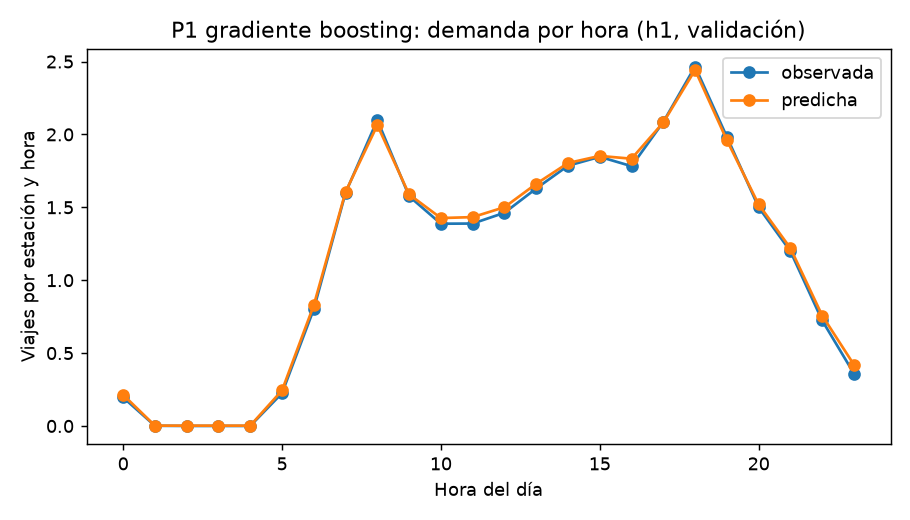
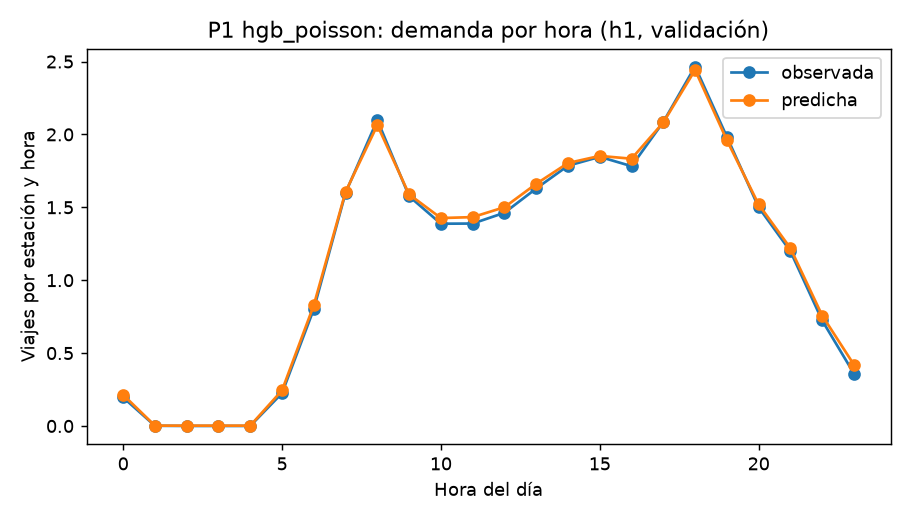
docs: alinea documentacion con segunda iteracion y evidencia

Changed region(s): [[0.1846, 0.0308, 0.8923, 0.0923]]

diff --git a/README.md b/README.md
@@ -10,10 +10,12 @@ Propuesta de Machine Learning para apoyar la operación de MiBici en Guadalajara
 
 ## Estado actual
 
-Existen la estructura Cookiecutter, configuración, propuesta, ingesta reproducible, funciones de variables para P1-P3 y el entrenamiento de los baselines y candidatos con registro en MLflow (`mibici/train.py`). La ingesta y las variables se ejecutaron con los nueve meses seleccionados. El notebook exploratorio quedó ejecutado y las seis corridas finalizaron desde el commit `43bf339792fef5d01326aa0ca0227fdd781675ff`, con `git_dirty=false`. P1-P2 incluyen la evaluación única de septiembre; P3 compara entrenamiento y validación. Las capturas y el PDF están incluidos.
+Existen la estructura Cookiecutter, configuración, propuesta, ingesta reproducible, funciones de variables para P1-P3, entrenamiento con registro en MLflow (`mibici/train.py`), modelos guardados con firma, Model Registry con alias `champion` e inferencia (`mibici/predict.py`). La ingesta y las variables se ejecutaron con los nueve meses seleccionados.
+
+El experimento tiene dos iteraciones. La **primera** son seis corridas (baseline y candidato por pregunta) ejecutadas desde el commit `43bf339792fef5d01326aa0ca0227fdd781675ff`, con `git_dirty=false`; P1-P2 incluyen la evaluación única de septiembre. La **segunda**, posterior a septiembre y evaluada solo en validación, agrega el baseline de persistencia de P2, el ajuste de hiperparámetros, la estación como variable categórica en P1, el barrido de k en P3, el análisis de errores de P1 y la sensibilidad de P2 a la ocupación inicial. Las capturas de MLflow y el PDF incluidos corresponden a la primera iteración.
 
 - [PDF de la propuesta y evidencia](reports/TC5061_Propuesta_Proyecto_Equipo45.pdf).
-- [Resultados de las seis corridas](reports/resultados_mlflow.md) y [registro completo de métricas y parámetros](reports/resultados_mlflow.json).
+- [Resultados e interpretación de ambas iteraciones](reports/resultados_mlflow.md) y [registro completo de métricas y parámetros de la primera iteración](reports/resultados_mlflow.json).
 - [ML Canvas editable](references/ml_canvas.md).
 - [ML Canvas en PDF](references/Machine%20Learning%20Canvas.pdf).
 - [Propuesta: datos, partición, pipelines, modelos y métricas](references/propuesta.md).
@@ -173,7 +175,7 @@ Recalcula la tabla de P2 **en memoria** con 25%, 50% y 75%, entrena persistencia
 
 ### Modelo guardado, registro y predicción
 
-Cada run candidato (`P1_hgb_poisson_h1`, `P2_logistica_proxy_h1`, `P2_hgb_proxy_h1`) guarda su estimador con `mlflow.sklearn.log_model`, con su firma (columnas y tipos de entrada, tipo de salida) y cinco filas de ejemplo. En MLflow 3 el modelo no es una carpeta dentro de *Artifacts*: se ve en el run (pestaña *Overview*, sección *Registered models*) y en *Model registry* (modo *Model training* de la barra lateral). El baseline estacional de P1 y los agrupamientos de P3 no son estimadores predictivos y no guardan modelo.
+Cada run con estimador (`P1_hgb_poisson_h1`, `P1_hgb_poisson_estacion_h1`, `P2_logistica_proxy_h1`, `P2_hgb_proxy_h1` y, con `--tune`, `P1_hgb_poisson_ajustado_h1` y `P2_hgb_ajustado_proxy_h1`) guarda su estimador con `mlflow.sklearn.log_model`, con su firma (columnas y tipos de entrada, tipo de salida) y cinco filas de ejemplo. En MLflow 3 el modelo no es una carpeta dentro de *Artifacts*: se ve en el run (pestaña *Overview*, sección *Registered models*) y en *Model registry* (modo *Model training* de la barra lateral). El baseline estacional de P1 y los agrupamientos de P3 no son estimadores predictivos y no guardan modelo.
 
 Al terminar P1 y P2 se elige el ganador **solo con métricas de validación** y se registra en el Model Registry con el alias `champion`:
 
@@ -205,7 +207,7 @@ También se puede abrir en VS Code o Jupyter y usar *Run All*.
 
 Las funciones de `mibici/features.py` incluyen docstrings que describen qué hacen, para qué pregunta son pertinentes y cómo respetan la disponibilidad temporal de la información. `config.py`, `dataset.py` y `train.py` también documentan sus módulos y funciones principales. La [guía de ingesta y variables](references/ingesta_features.md) contiene las explicaciones ampliadas.
 
-Las seis corridas documentadas conservan el commit de ejecución y las versiones que registraron originalmente: `data_version` `4bd1e3ec…` y `feature_version` `b588c619…`. Después, dos cambios solo de documentación actualizaron los hashes de código y, con ellos, las versiones de los manifiestos. Los docstrings de `features.py` cambiaron `feature_version`; los de `config.py` y `dataset.py` cambiaron también `data_version`. En ambos casos la reconstrucción conservó los hashes de los CSV y de los Parquet. Esta [verificación](reports/documentacion_features_verificacion.json) documenta el primer cambio; el segundo se comprueba en el historial de Git de los manifiestos, donde solo cambian hashes de código, versiones y `created_at`.
+Las seis corridas de la primera iteración conservan el commit de ejecución y las versiones que registraron originalmente: `data_version` `4bd1e3ec…` y `feature_version` `b588c619…`. Después, dos cambios solo de documentación actualizaron los hashes de código y, con ellos, las versiones de los manifiestos. Los docstrings de `features.py` cambiaron `feature_version`; los de `config.py` y `dataset.py` cambiaron también `data_version`. En ambos casos la reconstrucción conservó los hashes de los CSV y de los Parquet. Esta [verificación](reports/documentacion_features_verificacion.json) documenta el primer cambio; el segundo se comprueba en el historial de Git de los manifiestos, donde solo cambian hashes de código, versiones y `created_at`.
 
 ## Flujo de trabajo
 
@@ -230,14 +232,24 @@ Los manifiestos versionan URL, SHA-256, código y conteos sin publicar archivos 
 
 ## Evidencia y resultados obtenidos
 
+**Primera iteración (evaluación única de septiembre)**
+
 | Pregunta | Baseline | Candidato | Interpretación |
 |---|---|---|---|
 | P1 | MAE de prueba: 1.0264 | MAE de prueba: 0.8719 | El candidato reduce el error absoluto alrededor de 15.1%; aún tiene WAPE de 60.39%. |
 | P2 | F1 macro de prueba: 0.8114 | F1 macro de prueba: 0.8574 | Mejora la concordancia con el proxy; no demuestra disponibilidad real. |
 | P3 | K-means: silhouette 0.1407, ARI 0.5776 | Ward: silhouette 0.1232, ARI 0.3116 | K-means resulta preferible, pero los perfiles se superponen. |
 
-Las capturas `mlflow_01_lista`, `mlflow_02_detalle`, `mlflow_02_metricas_parametros`, `mlflow_03_artefacto` y `mlflow_04_comparacion` están en `reports/figures/`. El detalle de un run se presenta en dos vistas para que se lean métricas, parámetros y etiquetas. La interfaz local no es un enlace remoto: el profesor consulta el PDF o reproduce los comandos.
+**Segunda iteración (solo validación; no evaluada en septiembre)**
 
-Verificaciones realizadas: 59 pruebas de unidad aprobadas; verificación de hashes de ingesta y variables; reconstrucción previa con archivos idénticos; notebook sin errores y con seis figuras incrustadas. Entorno comprobado: Python 3.13.15 en Linux para todo el flujo; Python 3.13.16 en Windows para pruebas, regeneración de ingesta y variables y verificación de hashes. No se afirma haber ejecutado en macOS ni haber entrenado en Windows.
+| Pregunta | Resultado | Interpretación |
+|---|---|---|
+| P1 | `P1_hgb_poisson_estacion_h1` (estación categórica) obtiene `val_mae` 0.7498, frente a 0.7614 del boosting por defecto, 0.7552 del ajustado y 0.8988 del estacional; es el `champion` de `mibici-p1-demanda`. | Mejora modesta, de cerca de 1.5%. El error relativo se concentra en estaciones-hora de poca demanda (WAPE 1.61 en el decil más bajo frente a 0.43 en el más alto). |
+| P2 | La regla de persistencia obtiene F1 macro 0.8824, por encima del boosting (0.8708; ajustado 0.8723) y de la logística (0.8223). | El boosting no supera a la regla en la métrica principal; detecta más riesgos (mayor recall) con más falsas alarmas. El límite viene del proxy. Con ocupación inicial de 25% a 75% el F1 cambia menos de 0.0011. |
+| P3 | El barrido de k=2 a 8 da la mayor silhouette (0.1407) y el mayor ARI (0.5776) con k=3. | Respalda k=3 (pico matutino, vespertino y fin de semana), aunque los grupos se superponen. |
+
+Las capturas `mlflow_01_lista`, `mlflow_02_detalle`, `mlflow_02_metricas_parametros`, `mlflow_03_artefacto` y `mlflow_04_comparacion` están en `reports/figures/`. El detalle de un run se presenta en dos vistas para que se lean métricas, parámetros y etiquetas. La interfaz local no es un enlace remoto: el profesor consulta el PDF o reproduce los comandos. Estas capturas corresponden a la primera iteración y no muestran el Model Registry ni los runs de la segunda.
+
+Verificaciones realizadas: 59 pruebas de unidad aprobadas; verificación de hashes de ingesta y variables; reconstrucción previa con archivos idénticos; notebook exploratorio sin errores y con seis figuras incrustadas; notebook de análisis de errores sin errores y con dos figuras. Entorno comprobado: Python 3.13.15 en Linux para todo el flujo; Python 3.13.16 en Windows para pruebas, regeneración de ingesta y variables y verificación de hashes. No se afirma haber ejecutado en macOS ni haber entrenado en Windows.
 
 Referencias bibliográficas y justificaciones: [propuesta](references/propuesta.md).

diff --git a/reports/resultados_mlflow.md b/reports/resultados_mlflow.md
@@ -1,6 +1,6 @@
 # Resultados reales | Equipo 45
 
-Commit de ejecución: `43bf339792fef5d01326aa0ca0227fdd781675ff`.
+Commit de ejecución de la primera iteración (tablas P1, P2 y P3 siguientes y evaluación de septiembre): `43bf339792fef5d01326aa0ca0227fdd781675ff`. Las secciones posteriores a "Interpretación" corresponden a la segunda iteración; su trazabilidad se describe al final.
 
 ## P1
 
@@ -31,7 +31,7 @@ P2 mejora F1 macro de validación de 0.8223 a 0.8708 y de prueba de 0.8114 a 0.8
 
 P3 favorece K-means frente a Ward en las tres métricas. K-means produce grupos de 213, 33 y 151 estaciones, con 397 estaciones comunes al comparar periodos. El ARI de 0.5776 indica estabilidad parcial, no coincidencia perfecta; silhouette de 0.1407 advierte superposición. Tres grupos fue una decisión inicial fijada antes del experimento y el barrido de k (sección siguiente) la respalda. No se evaluó P3 sobre septiembre.
 
-Los tres candidatos se comparan solo con su baseline dentro de cada pregunta. La semilla 42 y las seis configuraciones se fijaron antes de la prueba; la primera iteración no realizó búsqueda de hiperparámetros (la segunda se describe más abajo). Por tanto, no se atribuye causalmente la mejora a un único hiperparámetro.
+En la primera iteración, los tres candidatos se comparan solo con su baseline dentro de cada pregunta. La semilla 42 y las seis configuraciones se fijaron antes de la prueba; la primera iteración no realizó búsqueda de hiperparámetros (la segunda se describe más abajo). Por tanto, no se atribuye causalmente la mejora a un único hiperparámetro.
 
 ## Control de rigor en P2: baseline de persistencia
 
@@ -164,4 +164,19 @@ Una explicación probable (no medida aparte aquí) es que la ocupación se recor
 
 ## Trazabilidad y evidencia
 
-Los seis runs finalizaron y registran `git_dirty=false`, el mismo commit, las mismas versiones de datos y variables, parámetros del estimador, etiquetas y al menos una figura. Las capturas auténticas de la interfaz están en `reports/figures/mlflow_*.png`; las tablas provienen del registro local y el JSON conserva la precisión completa. Los nombres de las corridas, no sus IDs locales, se reproducen al ejecutar los comandos del README.
+**Primera iteración.** Los seis runs finalizaron y registran `git_dirty=false`, el mismo commit (`43bf339`), las mismas versiones de datos y variables, parámetros del estimador, etiquetas y al menos una figura. Las capturas auténticas de la interfaz están en `reports/figures/mlflow_*.png`; el JSON `resultados_mlflow.json` conserva sus métricas y parámetros con precisión completa.
+
+**Segunda iteración.** El código y las cifras de cada análisis entraron en estos commits:
+
+| Commit | Contenido |
+|---|---|
+| `13a97f9` | Modelos guardados con firma, Model Registry con `champion` y `predict.py` |
+| `233d608` | Baseline de persistencia en P2 y búsqueda de hiperparámetros (`--tune`) |
+| `e4d5e9d` | Barrido de k en P3 |
+| `a4d5ac2` | Estación como variable categórica en P1 |
+| `e0dc21a` | Análisis de errores de P1 |
+| `f0acc9b` | Sensibilidad de P2 a la ocupación inicial |
+
+El repositorio no registra el commit de ejecución ni el valor de `git_dirty` de estos runs, y el JSON no los incluye. Cada run guarda ambas etiquetas en MLflow, que es local y no se versiona. Para que la segunda iteración tenga la misma trazabilidad que la primera, se reejecutará desde un commit limpio y se actualizará esta sección.
+
+Los nombres de las corridas, no sus IDs locales, se reproducen al ejecutar los comandos del README.

diff --git a/references/propuesta.md b/references/propuesta.md
@@ -1,6 +1,6 @@
 # Propuesta de solución | Equipo 45
 
-Este documento precisa el diseño del Canvas inicial. La ingesta y el módulo de variables ya están implementados; el entrenamiento P1-P3 y el registro en MLflow están implementados. El protocolo quedó confirmado en Git antes de ejecutar una sola vez la prueba final de P1-P2. Las seis corridas finalizaron correctamente; P3 se evaluó con entrenamiento y validación. Resultados de datos y comprobaciones: [ingesta_features.md](ingesta_features.md).
+Este documento precisa el diseño del Canvas inicial. La ingesta y el módulo de variables ya están implementados; el entrenamiento P1-P3 y el registro en MLflow están implementados. El protocolo quedó confirmado en Git antes de ejecutar una sola vez la prueba final de P1-P2. Las seis corridas de la primera iteración finalizaron correctamente; P3 se evaluó con entrenamiento y validación. Una segunda iteración, solo en validación, se resume en la sección 7. Resultados de datos y comprobaciones: [ingesta_features.md](ingesta_features.md).
 
 ## 1. Problemas y decisiones
 
@@ -87,7 +87,7 @@ Normalizar evita que el volumen total domine la forma del patrón. Las coordenad
 
 El [diagrama](arquitectura.svg) y su [justificación](arquitectura.md) separan fuentes, ingesta, almacenamiento, variables, entrenamiento y seguimiento. Se propone Parquet mensual, manifiesto SHA-256 y MLflow local con SQLite.
 
-Los seis runs registran equipo, P1/P2/P3 y commit; rango/cortes, versiones de datos y variables, semilla e hiperparámetros; métricas con prefijo y artefactos. Se ejecutaron baseline y candidato para cada pregunta. La comparación se hace dentro de cada tarea. Las capturas muestran lista, detalle, artefacto y comparación.
+Los runs registran equipo, P1/P2/P3 y commit; rango/cortes, versiones de datos y variables, semilla e hiperparámetros; métricas con prefijo y artefactos. Se ejecutaron baseline y candidato para cada pregunta. La comparación se hace dentro de cada tarea. Las capturas muestran lista, detalle, artefacto y comparación.
 
 ## 7. Resultados y alcance de la entrega
 
@@ -98,6 +98,8 @@ El registro completo está en [resultados_mlflow.json](../reports/resultados_mlf
 - **P3:** K-means supera a Ward en silhouette (0.1407 vs. 0.1232), Davies-Bouldin (1.9784 vs. 2.1388) y ARI entre entrenamiento/validación (0.5776 vs. 0.3116). La separación es baja y no demuestra tres tipos naturales bien definidos. No se calculó una evaluación de P3 sobre septiembre.
 
 El notebook exploratorio está ejecutado y contiene figuras incrustadas. El reporte final integra el Canvas original, arquitectura, resultados y capturas reales. Las funciones se explican en la documentación Markdown del proyecto.
+
+**Segunda iteración (solo validación).** El `champion` de P1 es el boosting con la estación como variable categórica (`val_mae` 0.7498). En P2, la regla de persistencia supera al boosting en F1 macro (0.8824 contra 0.8708), lo que confirma que la métrica mide sobre todo concordancia con el proxy. El barrido de k respalda k=3. La sensibilidad a la ocupación inicial no cambia las conclusiones. Detalle en [resultados_mlflow.md](../reports/resultados_mlflow.md).
 
 ## Referencias
 

diff --git a/references/arquitectura.md b/references/arquitectura.md
@@ -2,7 +2,7 @@
 
 ![Componentes y flujo](arquitectura.svg)
 
-El diagrama describe el sistema del proyecto. Configuración, ingesta, variables, entrenamiento y seis runs de MLflow están implementados y ejecutados. La evidencia de ejecución está en [ingesta_features.md](ingesta_features.md).
+El diagrama describe el flujo principal del sistema. Configuración, ingesta, variables, entrenamiento, seguimiento y registro de modelos en MLflow e inferencia están implementados y ejecutados, en dos iteraciones de experimentos. El diagrama no dibuja el Model Registry ni la inferencia; la tabla los incluye. La evidencia de ejecución está en [ingesta_features.md](ingesta_features.md) y [resultados_mlflow.md](../reports/resultados_mlflow.md).
 
 | Componente | Herramienta y función | Justificación |
 |---|---|---|
@@ -11,8 +11,9 @@ El diagrama describe el sistema del proyecto. Configuración, ingesta, variables
 | Almacenamiento | CSV crudo local y Parquet mensual con PyArrow. | Conservar origen y facilitar lecturas parciales; archivos grandes fuera de Git. |
 | Versionado | Manifiesto JSON con URL, SHA-256 y conteos, guardado en Git. | Ligar datos y código permite trazabilidad y reproducción del experimento (Treveil et al., 2020). |
 | Preparación | pandas, funciones de `features.py` y cortes de `config.py`. | Separar exploración y lógica reutilizable sigue Cookiecutter Data Science y facilita revisar la información disponible al predecir. |
-| Entrenamiento | scikit-learn para los tres baselines y candidatos. | Estimadores sencillos y métricas por tarea; selección en validación antes de prueba (Huyen, 2022). |
-| Seguimiento | MLflow, SQLite y artefactos locales. | Registrar configuración, métricas, versiones y salidas. El equipo reproducirá las corridas o acordará un servidor compartido. |
+| Entrenamiento | scikit-learn para baselines (incluida una regla de persistencia en P2) y candidatos; búsqueda de hiperparámetros solo en validación (`--tune`). | Estimadores sencillos y métricas por tarea; selección en validación antes de prueba (Huyen, 2022). |
+| Seguimiento | MLflow, SQLite y artefactos locales; modelos guardados con firma (`skops`) y Model Registry con alias `champion` elegido solo con métricas de validación. | Registrar configuración, métricas, versiones y salidas. El equipo reproducirá las corridas o acordará un servidor compartido. |
+| Inferencia | `predict.py` carga el `champion` y predice una hora con las variables de `features.py`. | Reutiliza las mismas variables del entrenamiento para no introducir diferencias entre entrenar y predecir. |
 | Evidencia | Matplotlib para gráficos/mapa y capturas reales de MLflow. | Interpretar errores/grupos y verificar runs, sin publicar atributos personales. |
 
 Referencias completas en [propuesta.md](propuesta.md). Un clon de Git no contendrá la base ni los artefactos de experimentos ya ejecutados.

diff --git a/references/protocolo_experimento.md b/references/protocolo_experimento.md
@@ -1,10 +1,10 @@
 # Protocolo del experimento base | Equipo 45
 
-Las seis configuraciones y la semilla 42 quedan fijadas en Git antes de ejecutar el experimento. No se buscan hiperparámetros ni se modifica un modelo después de observar septiembre.
+Las seis configuraciones de la primera iteración y la semilla 42 quedaron fijadas en Git antes de ejecutar el experimento, y no se modificaron después de observar septiembre. Las adiciones posteriores (baseline de persistencia, barrido de k, estación categórica, ajuste de hiperparámetros y sensibilidad del proxy) forman una segunda iteración declarada en las secciones siguientes. Usan solo validación y no se evaluaron en septiembre.
 
 - Entrenamiento: enero-junio, excluyendo la historia inicial insuficiente.
 - Validación: julio-agosto; se comparan las configuraciones propuestas.
-- Prueba final: septiembre; se evalúa una vez por configuración de P1/P2 mediante `--final-test`, después de fijar este protocolo.
+- Prueba final: septiembre; se evaluó una vez por configuración de P1/P2 de la primera iteración mediante `--final-test`, después de fijar este protocolo.
 - P3 compara perfiles de entrenamiento y validación mediante ARI entre estaciones comunes. La versión actual no calcula métricas de prueba para P3; no se atribuyen resultados de septiembre a esta pregunta.
 - P1: estacional semanal y `HistGradientBoostingRegressor(loss="poisson")`.
 - P2: regresión logística balanceada con escalado aprendido en entrenamiento y `HistGradientBoostingClassifier(class_weight="balanced")`. Se agregó después un tercer baseline sin aprendizaje, `P2_persistencia_proxy_h1` (véase abajo).

diff --git a/references/ingesta_features.md b/references/ingesta_features.md
@@ -66,7 +66,7 @@ Para sensibilidad, `python -m mibici.features --initial-occupancy 0.25` reconstr
 
 [feature_manifest.json](feature_manifest.json) liga la versión de origen, el código, columnas predictoras, filas por conjunto, clases, exclusiones y hashes de las tablas. [La verificación de reproducción](../reports/ingesta_features_verificacion.json) documenta dos ejecuciones y las comprobaciones automáticas.
 
-Los datos y Parquet están excluidos de Git; solo se publican código, manifiestos, conteos y pruebas sintéticas. El entrenamiento y la evaluación ya se ejecutaron con seis runs reales en MLflow. El notebook exploratorio está ejecutado, las capturas están en reports/figures/ y los resultados en reports/resultados_mlflow.md. Las condiciones publicadas del portal se documentan en references/condiciones_datos.md.
+Los datos y Parquet están excluidos de Git; solo se publican código, manifiestos, conteos y pruebas sintéticas. El entrenamiento y la evaluación ya se ejecutaron en MLflow en dos iteraciones; la primera incluye la evaluación única de septiembre. El notebook exploratorio está ejecutado, las capturas están en reports/figures/ y los resultados en reports/resultados_mlflow.md. Las condiciones publicadas del portal se documentan en references/condiciones_datos.md.
 
 ### Trazabilidad de la documentación
 

diff --git a/docs/docs/getting-started.md b/docs/docs/getting-started.md
@@ -1,6 +1,16 @@
-Getting started
-===============
+# Primeros pasos
 
-This is where you describe how to get set up on a clean install, including the
-commands necessary to get the raw data (using the `sync_data_from_s3` command,
-for example), and then how to make the cleaned, final data sets.
+Requiere Python 3.13. Desde la raíz del repositorio, con el entorno activado:
+
+```bash
+python -m pip install -r requirements.txt
+python -m mibici.dataset          # descarga, limpia y versiona los datos
+python -m mibici.features         # construye las variables de P1-P3
+python -m mibici.dataset --verify
+python -m mibici.features --verify
+python -m unittest discover -s tests -v
+python -m mibici.train --question all
+python -m mibici.predict --question P1 --timestamp 2026-09-15T08:00
+```
+
+Con `make` disponible, los mismos pasos son `make data`, `make features`, `make verify`, `make test` y `make train`. `make train` no evalúa septiembre; la prueba final se ejecuta a mano una sola vez, según `references/protocolo_experimento.md`.

diff --git a/references/ml_canvas.md b/references/ml_canvas.md
@@ -1,6 +1,6 @@
 # Machine Learning Canvas | Equipo 45
 
-Fuente editable del contenido. El PDF conserva la distribución y los iconos de la plantilla original. Los seis runs fueron ejecutados; se documenta el diseño de monitoreo operativo.
+Fuente editable del contenido. El PDF conserva la distribución y los iconos de la plantilla original. Los experimentos se ejecutaron en dos iteraciones (véase [resultados_mlflow.md](../reports/resultados_mlflow.md)); se documenta el diseño de monitoreo operativo.
 
 ## Decisión
 
@@ -52,7 +52,7 @@ Umbrales: 10% y 90%. Ocupación inicial utilizada: 50%.
 
 **P3:** análisis por lotes con actualización mensual propuesta.
 
-Seis runs reales en MLflow. P1-P2 evaluados una vez en septiembre.
+Runs reales en MLflow en dos iteraciones; modelos `champion` en Model Registry. P1-P2 evaluados una vez en septiembre (primera iteración).
 
 ## Evaluación Offline
 

diff --git a/docs/docs/index.md b/docs/docs/index.md
@@ -1,10 +1,11 @@
-# MiBici documentation!
+# MiBici | Equipo 45
 
-## Description
+Machine Learning para apoyar la operación de MiBici en Guadalajara con tres preguntas:
 
-propuesta y base reproducible | Colaborativo
+- **P1, demanda:** viajes iniciados por estación durante la siguiente hora.
+- **P2, riesgo:** riesgo virtual de falta de bicicletas o anclajes al cierre de la siguiente hora.
+- **P3, patrones:** grupos de estaciones por perfil horario de uso.
 
-## Commands
+La documentación completa vive en el repositorio: `README.md` (instalación, comandos y resultados), `references/` (propuesta, protocolo, arquitectura, ingesta y variables) y `reports/resultados_mlflow.md` (resultados e interpretación).
 
-The Makefile contains the central entry points for common tasks related to this project.
-
+Consulta [Primeros pasos](getting-started.md) para reproducir el flujo.
